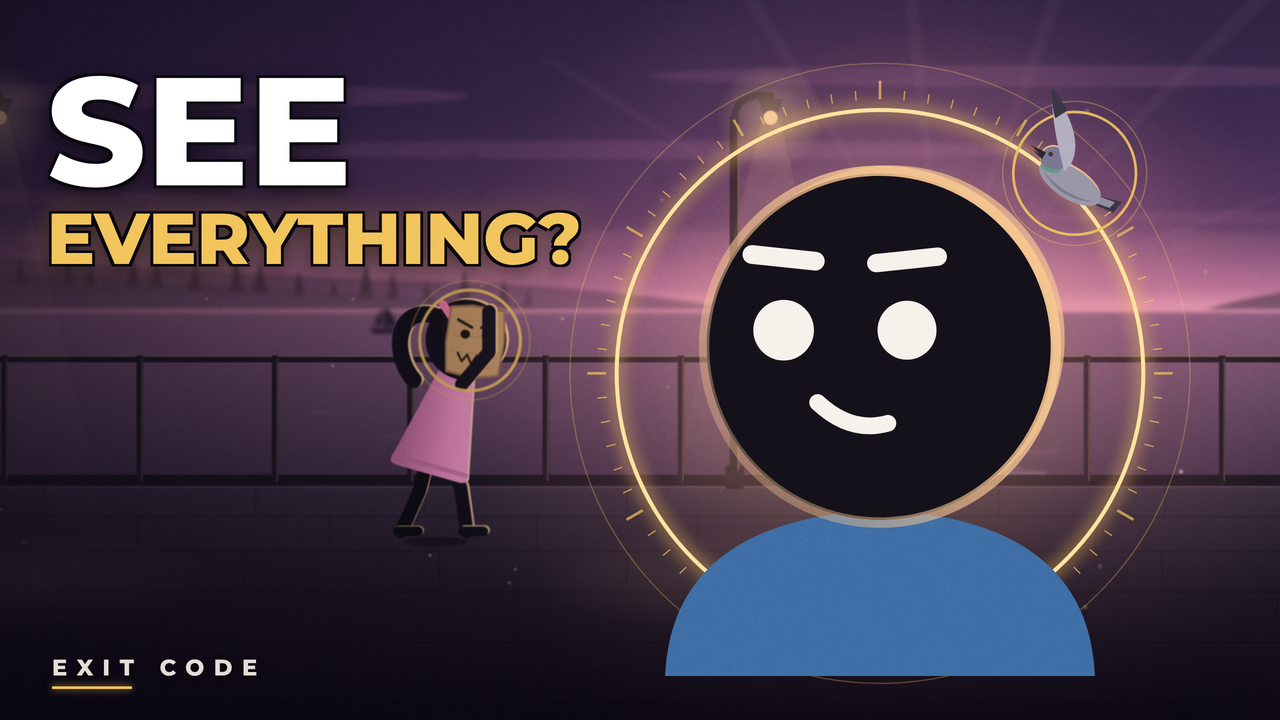
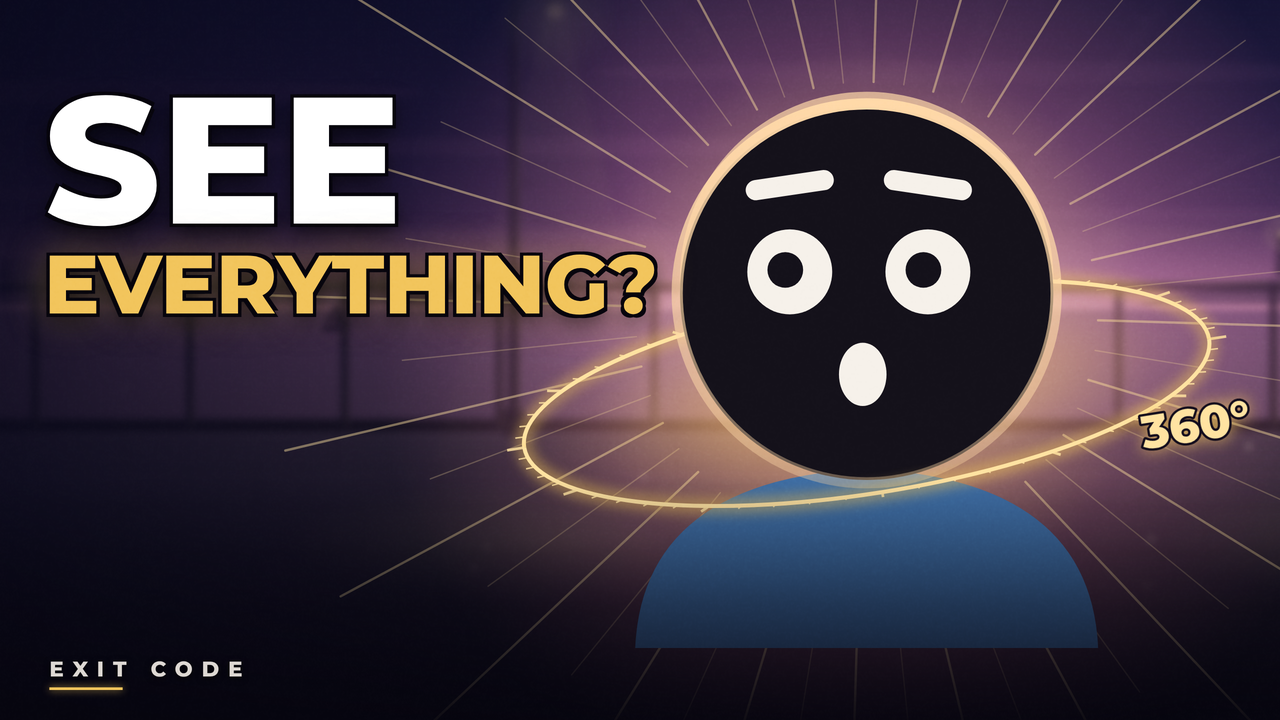
Thumbnail v2 redesign: single focal point - backlit Leo (awe), 3D 360° vision orbit with rays, bigger SEE EVERYTHING?, shoulders shaded; v1 kept as EXIT_CODE_360_THUMBNAIL_v1.png
Claude-Session: https://claude.ai/code/session_01PtWP9fX8hfzrtQZnQWfJyK

diff --git a/exit-code-360/src/thumbnail/ThumbnailV2.tsx b/exit-code-360/src/thumbnail/ThumbnailV2.tsx
@@ -1,0 +1,126 @@
+// EXIT CODE 360 — thumbnail v2 (1280×720): one focal point. Leo, backlit by the promenade sunset,
+// inside a glowing 360° vision field; short bold question. Built from the production's own
+// set, rig, palette, grain and typography.
+import React from "react";
+import { AbsoluteFill, Img, staticFile } from "remotion";
+import { Head } from "../characters/Figure";
+import { LEO } from "../characters/cast";
+import { FACES } from "../characters/poses";
+import type { Face } from "../characters/types";
+import { Hills, PromenadeSet, SkySea } from "../env/Promenade";
+import { type Cam } from "../lib/camera";
+import { C } from "../style/palette";
+import { FONT, loadFonts } from "../style/fonts";
+
+loadFonts();
+
+const OUT = "0 0 4px #07050D, 5px 5px 0 #07050D, -5px 5px 0 #07050D, 5px -5px 0 #07050D, -5px -5px 0 #07050D, 0 12px 34px rgba(0,0,0,0.7)";
+
+type Props = { ring?: "flat" | "orbit"; expr?: "awe" | "smirk" };
+
+const FACE: Record<string, Partial<Face>> = {
+  // wide-eyed: he is taking in everything around him
+  awe: { ...FACES.shocked, eye: "wide", lookX: -0.35, lookY: -0.15, mouth: "o", open: 0.55, brow: 0.35, browShow: 1, browY: 0.45 },
+  // knowing: he already sees you
+  smirk: { ...FACES.smug, eye: "dot", lookX: 0, lookY: 0, mouth: "smirk", brow: -0.3, browShow: 1, browY: 0.2 },
+};
+
+export const ThumbnailV2: React.FC<Props> = ({ ring = "orbit", expr = "awe" }) => {
+  const cam: Cam = { x: 1380 - 960, y: 150, zoom: 1.35 }; // sun sits behind Leo's head
+  const t = 0.5;
+  const HX = 1300;
+  const HY = 470;
+  const HS = 560;
+  const rays = Array.from({ length: 48 });
+  const RX = 520; // orbit ellipse
+  const RY = 150;
+  const OY = HY + 120;
+  const tilt = -9;
+  const ellipseArc = (front: boolean) => {
+    // half ellipse: back = upper half (behind the head), front = lower half (sweep 0 = through the bottom)
+    const s = front ? 0 : 1;
+    return `M${HX - RX},${OY} A${RX},${RY} 0 0 ${s} ${HX + RX},${OY}`;
+  };
+  const ticks = (front: boolean) =>
+    Array.from({ length: 60 }).map((_, i) => {
+      const a = (i / 60) * Math.PI * 2;
+      const isFront = Math.sin(a) > 0;
+      if (isFront !== front) return null;
+      const x = HX + Math.cos(a) * RX;
+      const y = OY + Math.sin(a) * RY;
+      const len = i % 5 === 0 ? 26 : 14;
+      const nx = Math.cos(a) * len;
+      const ny = Math.sin(a) * len * (RY / RX);
+      return <line key={i} x1={x} y1={y} x2={x + nx} y2={y + ny} stroke={C.goldLight} strokeWidth={i % 5 === 0 ? 4 : 2.2} opacity={0.85} />;
+    });
+  return (
+    <AbsoluteFill style={{ background: "#000", overflow: "hidden" }}>
+      <div style={{ position: "absolute", left: 0, top: 0, width: 1920, height: 1080, transformOrigin: "0 0", transform: "scale(0.6666667)" }}>
+        <SkySea cam={cam} t={t} blur={5} />
+        <Hills cam={cam} t={t} blur={5} />
+        <PromenadeSet cam={cam} t={t} blur={6} />
+        {/* grade: cool, deeper sky at the edges; hot sunset core behind the head */}
+        <AbsoluteFill style={{ background: "linear-gradient(180deg, rgba(14,16,48,0.78) 0%, rgba(30,20,70,0.35) 38%, rgba(0,0,0,0) 60%, rgba(8,6,20,0.7) 100%)" }} />
+        <AbsoluteFill style={{ background: `radial-gradient(circle at ${HX}px ${HY + 30}px, rgba(255,226,170,0.95) 0%, rgba(255,170,120,0.65) 12%, rgba(240,120,150,0.28) 30%, rgba(0,0,0,0) 52%)`, mixBlendMode: "screen" }} />
+        <AbsoluteFill style={{ background: "linear-gradient(90deg, rgba(8,8,26,0.82) 0%, rgba(8,8,26,0.45) 30%, rgba(8,8,26,0) 50%)" }} />
+        <svg width={1920} height={1080} style={{ position: "absolute", inset: 0 }}>
+          <defs>
+            <filter id="v2glow" x="-50%" y="-50%" width="200%" height="200%">
+              <feGaussianBlur stdDeviation="9" />
+            </filter>
+            <radialGradient id="v2disc" cx="50%" cy="50%" r="50%">
+              <stop offset="0%" stopColor={C.gold} stopOpacity={0.55} />
+              <stop offset="70%" stopColor={C.gold} stopOpacity={0.12} />
+              <stop offset="100%" stopColor={C.gold} stopOpacity={0} />
+            </radialGradient>
+          </defs>
+          {/* vision rays in every direction */}
+          {rays.map((_, i) => {
+            const a = (i / rays.length) * Math.PI * 2 + 0.03;
+            const r0 = HS * 0.62;
+            const r1 = HS * (i % 2 ? 1.25 : 1.6);
+            return (
+              <line key={i} x1={HX + Math.cos(a) * r0} y1={HY + Math.sin(a) * r0} x2={HX + Math.cos(a) * r1} y2={HY + Math.sin(a) * r1} stroke={C.goldLight} strokeWidth={i % 2 ? 2 : 3.5} opacity={i % 2 ? 0.25 : 0.45} strokeLinecap="round" />
+            );
+          })}
+          {ring === "flat" ? (
+            <g>
+              <circle cx={HX} cy={HY} r={HS * 0.74} fill="none" stroke={C.gold} strokeWidth={28} opacity={0.4} filter="url(#v2glow)" />
+              <circle cx={HX} cy={HY} r={HS * 0.74} fill="none" stroke={C.goldLight} strokeWidth={7} />
+            </g>
+          ) : (
+            <g transform={`rotate(${tilt} ${HX} ${OY})`}>
+              <ellipse cx={HX} cy={OY} rx={RX} ry={RY} fill="url(#v2disc)" />
+              <path d={ellipseArc(false)} fill="none" stroke={C.gold} strokeWidth={24} opacity={0.45} filter="url(#v2glow)" />
+              <path d={ellipseArc(false)} fill="none" stroke={C.goldLight} strokeWidth={6} />
+              {ticks(false)}
+            </g>
+          )}
+          <Head spec={LEO} id="v2leo" x={HX} y={HY - 30} size={HS} face={FACE[expr]} turn={0} light={{ x: 0, y: -1 }} rim="#FFD9A8" />
+          {ring === "orbit" && (
+            <g transform={`rotate(${tilt} ${HX} ${OY})`}>
+              <path d={ellipseArc(true)} fill="none" stroke={C.gold} strokeWidth={24} opacity={0.5} filter="url(#v2glow)" />
+              <path d={ellipseArc(true)} fill="none" stroke={C.goldLight} strokeWidth={6} />
+              {ticks(true)}
+              <text x={HX + RX - 40} y={OY + RY - 2} fontFamily={FONT} fontWeight={800} fontSize={70} fill={C.goldLight} stroke="#120C1C" strokeWidth={7} paintOrder="stroke" strokeLinejoin="round" textAnchor="middle" style={{ filter: "drop-shadow(0 0 12px rgba(242,197,92,0.75))" }}>
+                360°
+              </text>
+            </g>
+          )}
+        </svg>
+        <AbsoluteFill style={{ background: "linear-gradient(0deg, rgba(6,5,14,0.92) 0%, rgba(6,5,14,0.55) 16%, rgba(6,5,14,0) 34%)" }} />
+        <div style={{ position: "absolute", left: 66, top: 120, fontFamily: FONT, fontWeight: 800, lineHeight: 0.88, letterSpacing: "-0.015em" }}>
+          <div style={{ fontSize: 270, color: "#FFFFFF", textShadow: OUT }}>SEE</div>
+          <div style={{ fontSize: 124, color: C.gold, textShadow: `${OUT}, 0 0 60px rgba(242,197,92,0.5)`, marginTop: 14 }}>EVERYTHING?</div>
+        </div>
+        <div style={{ position: "absolute", left: 74, top: 984, fontFamily: FONT, fontWeight: 800, fontSize: 32, letterSpacing: "0.42em", color: "rgba(246,241,234,0.9)", textShadow: "0 2px 10px rgba(0,0,0,0.8)" }}>
+          EXIT CODE
+          <div style={{ marginTop: 8, width: 110, height: 4, background: C.gold, boxShadow: "0 0 12px rgba(242,197,92,0.8)" }} />
+        </div>
+        <AbsoluteFill style={{ mixBlendMode: "overlay", opacity: 0.07 }}>
+          <Img src={staticFile("textures/grain_5.png")} style={{ width: 1920, height: 1080 }} />
+        </AbsoluteFill>
+      </div>
+    </AbsoluteFill>
+  );
+};

diff --git a/exit-code-360/src/Root.tsx b/exit-code-360/src/Root.tsx
@@ -8,6 +8,7 @@ import { FILM_FRAMES } from "./lib/timing";
 import { Teaser, TEASER_FRAMES } from "./teaser/Teaser";
 import { Mystery, MYSTERY_FRAMES } from "./teaser/Mystery";
 import { Thumbnail } from "./thumbnail/Thumbnail";
+import { ThumbnailV2 } from "./thumbnail/ThumbnailV2";
 
 export const RemotionRoot: React.FC = () => (
   <>
@@ -48,6 +49,9 @@ export const RemotionRoot: React.FC = () => (
       defaultProps={{ withAudio: true }}
     />
     <Still id="Thumbnail" component={Thumbnail} width={1280} height={720} defaultProps={{ look: 1 }} />
+    <Still id="ThumbnailV2" component={ThumbnailV2} width={1280} height={720} defaultProps={{ ring: "orbit" as const, expr: "awe" as const }} />
+    <Still id="ThumbnailV2Flat" component={ThumbnailV2} width={1280} height={720} defaultProps={{ ring: "flat" as const, expr: "awe" as const }} />
+    <Still id="ThumbnailV2Smirk" component={ThumbnailV2} width={1280} height={720} defaultProps={{ ring: "orbit" as const, expr: "smirk" as const }} />
     <Still id="SheetLeo" component={CharacterSheet} width={1920} height={1080} defaultProps={{ who: "leo" as const }} />
     <Still id="SheetMia" component={CharacterSheet} width={1920} height={1080} defaultProps={{ who: "mia" as const }} />
     <Still id="SheetBlack" component={CharacterSheet} width={1920} height={1080} defaultProps={{ who: "black" as const }} />

diff --git a/exit-code-360/README.md b/exit-code-360/README.md
@@ -50,7 +50,8 @@ renders/
   EXIT_CODE_360_POC_v2.mp4
   EXIT_CODE_360_FULL.mp4     (generated; delivered directly, not committed)
 thumbnail/
-  EXIT_CODE_360_THUMBNAIL.png  1280×720 YouTube thumbnail (render: Still "Thumbnail" at 2× → Lanczos to 1280×720)
+  EXIT_CODE_360_THUMBNAIL.png     1280×720 YouTube thumbnail, v2 redesign (Still "ThumbnailV2" at 2× → Lanczos to 1280×720)
+  EXIT_CODE_360_THUMBNAIL_v1.png  first version (Still "Thumbnail")
 assets/
   character_sheets/     rendered sheets
   reference_frames/     (git-ignored) analysis boards from the third-party reference
